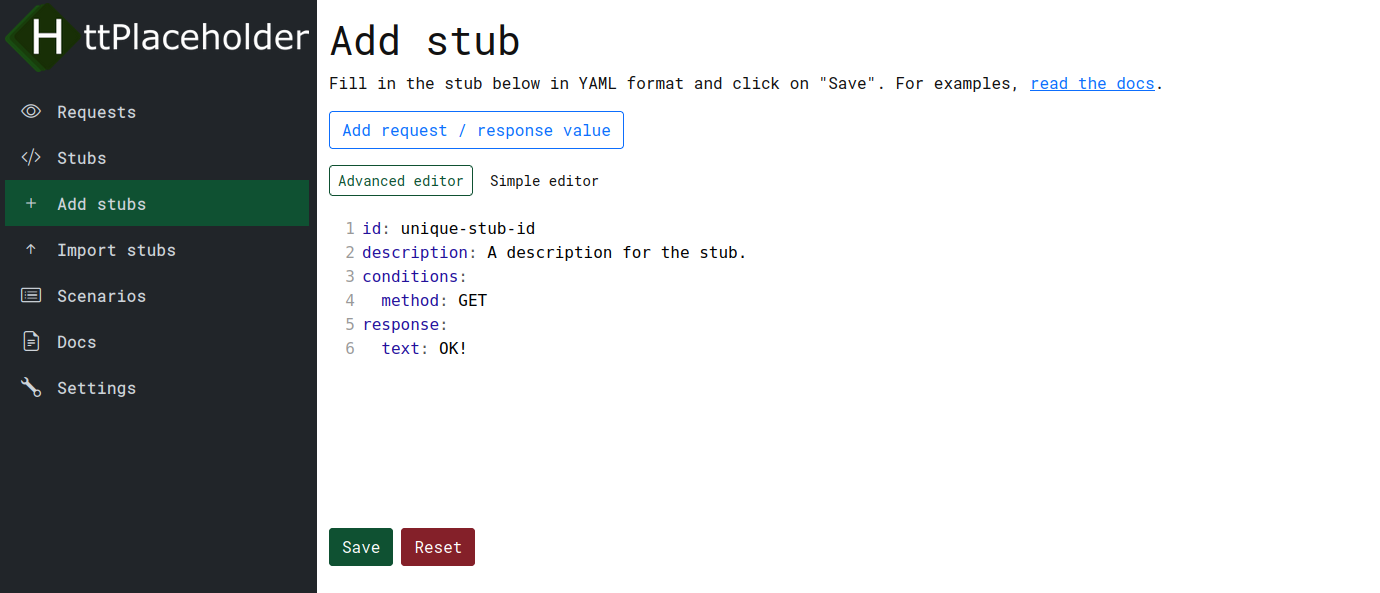
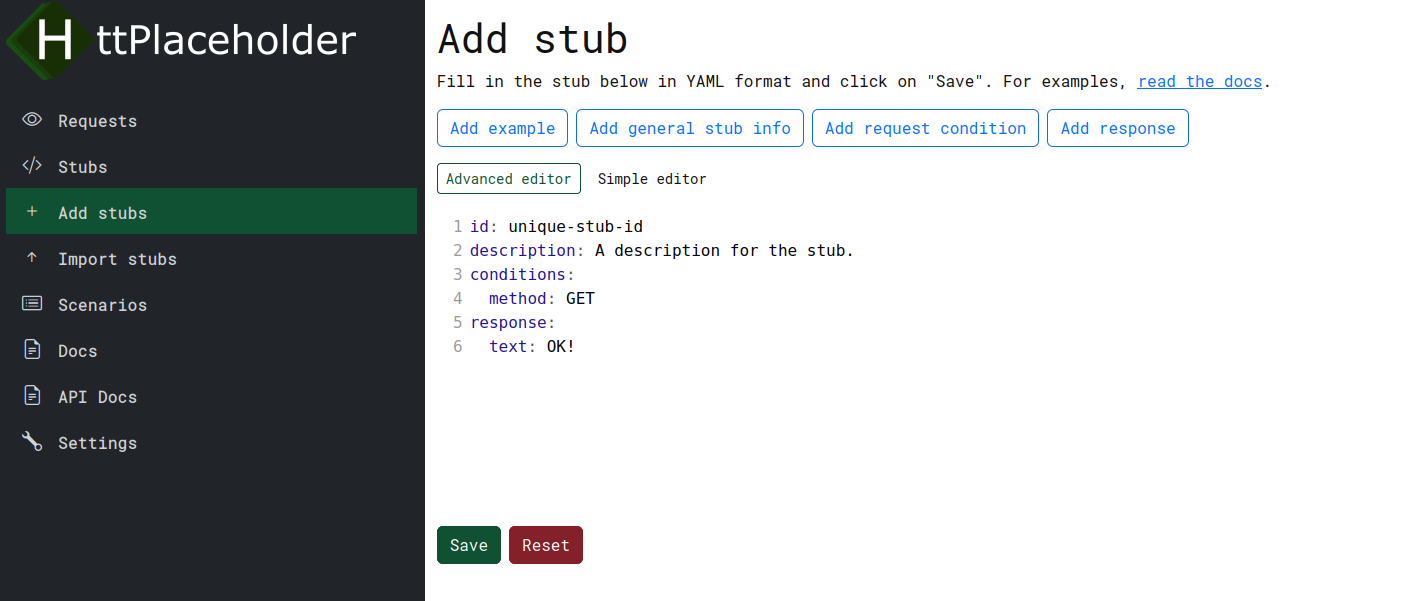
Updated docs

diff --git a/docs/docs.md b/docs/docs.md
@@ -2751,7 +2751,7 @@ You can add a single stub here or you can provide multiple stubs in YAML format.
 
 ![](img/ui/stub_add_yaml_helpers.png)
 
-You can also click on "Add request / response value" so you can see what kind of values you can use in your request conditions and response definitions and insert them.
+You can also click on any of the 4 buttons so you can see what kind of values you can use in your request conditions and response definitions and insert them.
 
 Besides this, you can also choose between using the "Advanced editor" (based on [CodeMirror](https://codemirror.net/)) and "Simple editor". A simple editor was added because CodeMirror is not really suited for updating large stubs.
 
